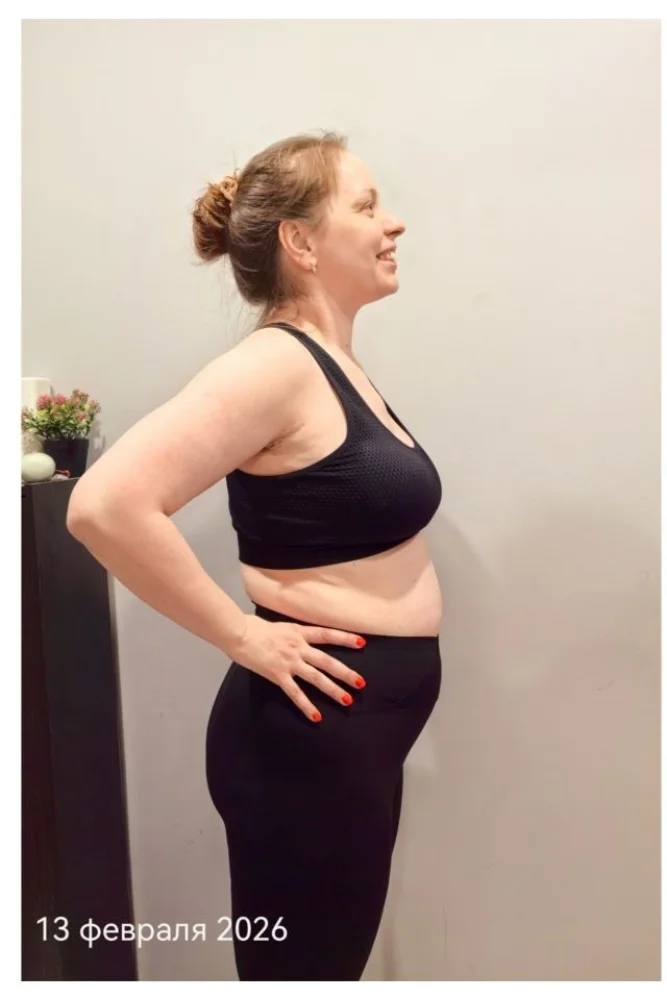
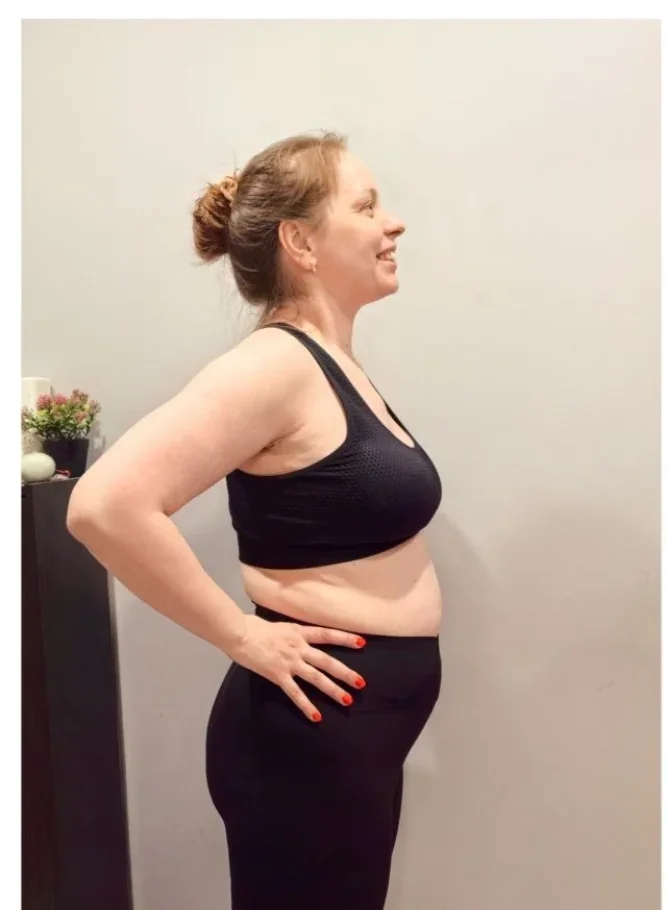
fix(proof): обрезать даты с нижнего края фото кейса 2
- Обрезал ~9% снизу с case-2-before.webp и case-2-after.webp
  (удалены датировки '13 февраля 2026' и '27 апреля 2026')
- ?v=2 на URL для обновления кэша браузера
- Cache-bust styles.css: sj3-q → sj3-r

Changed region(s): [[0.03, 0.1231, 1.0, 1.0]]

diff --git a/styles.css b/styles.css
@@ -1683,10 +1683,10 @@ h1, h2, h3 { font-family: var(--font-h); font-weight: 500; margin: 0; line-heigh
   border: 0 !important;
 }
 .proof-tile--split .proof-tile__half--c2b {
-  background: url('assets/proof/case-2-before.webp') 78% 30% / cover no-repeat;
-} /* левая половинка кейса 2 — сдвиг вправо, чтобы видно было руки */
+  background: url('assets/proof/case-2-before.webp?v=2') 78% 35% / cover no-repeat;
+} /* левая половинка кейса 2 — сдвиг вправо, чтобы видно было руки; даты обрезаны */
 .proof-tile--split .proof-tile__half--c2a {
-  background: url('assets/proof/case-2-after.webp')  center 30% / cover no-repeat;
+  background: url('assets/proof/case-2-after.webp?v=2')  center 35% / cover no-repeat;
 }
 .proof-tile--split .proof-tile__half--c3b {
   background: url('assets/proof/case-3-before.webp') 75% 65% / cover no-repeat;

diff --git a/tilda-embed.html b/tilda-embed.html
@@ -1711,10 +1711,10 @@ h1, h2, h3 { font-family: var(--font-h); font-weight: 500; margin: 0; line-heigh
   border: 0 !important;
 }
 .proof-tile--split .proof-tile__half--c2b {
-  background: url('https://npopko55-cmd.github.io/stroyniy-zhivot-3/assets/proof/case-2-before.webp') 78% 30% / cover no-repeat;
-} /* левая половинка кейса 2 — сдвиг вправо, чтобы видно было руки */
+  background: url('https://npopko55-cmd.github.io/stroyniy-zhivot-3/assets/proof/case-2-before.webp?v=2') 78% 35% / cover no-repeat;
+} /* левая половинка кейса 2 — сдвиг вправо, чтобы видно было руки; даты обрезаны */
 .proof-tile--split .proof-tile__half--c2a {
-  background: url('https://npopko55-cmd.github.io/stroyniy-zhivot-3/assets/proof/case-2-after.webp')  center 30% / cover no-repeat;
+  background: url('https://npopko55-cmd.github.io/stroyniy-zhivot-3/assets/proof/case-2-after.webp?v=2')  center 35% / cover no-repeat;
 }
 .proof-tile--split .proof-tile__half--c3b {
   background: url('https://npopko55-cmd.github.io/stroyniy-zhivot-3/assets/proof/case-3-before.webp') 75% 65% / cover no-repeat;

diff --git a/index.html b/index.html
@@ -25,7 +25,7 @@
   <!-- Preload hero-картинки — попадает в первый экран, ускоряет LCP -->
   <link rel="preload" as="image" href="https://static.tildacdn.com/tild3666-3131-4131-b165-646466333162/522A7887.jpg" fetchpriority="high" />
 
-  <link rel="stylesheet" href="styles.css?v=sj3-q" />
+  <link rel="stylesheet" href="styles.css?v=sj3-r" />
 </head>
 <body>
 